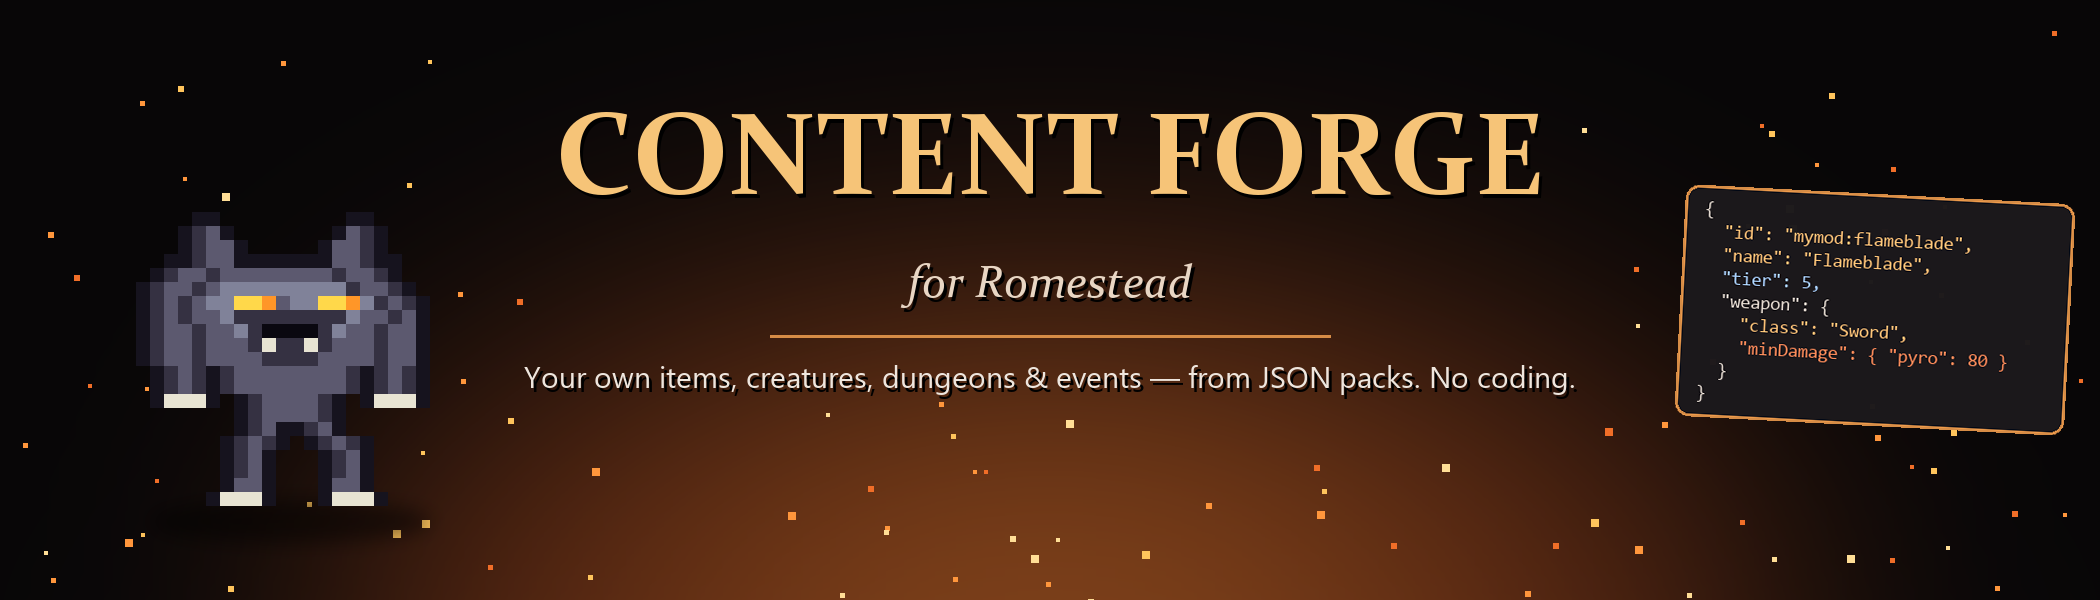
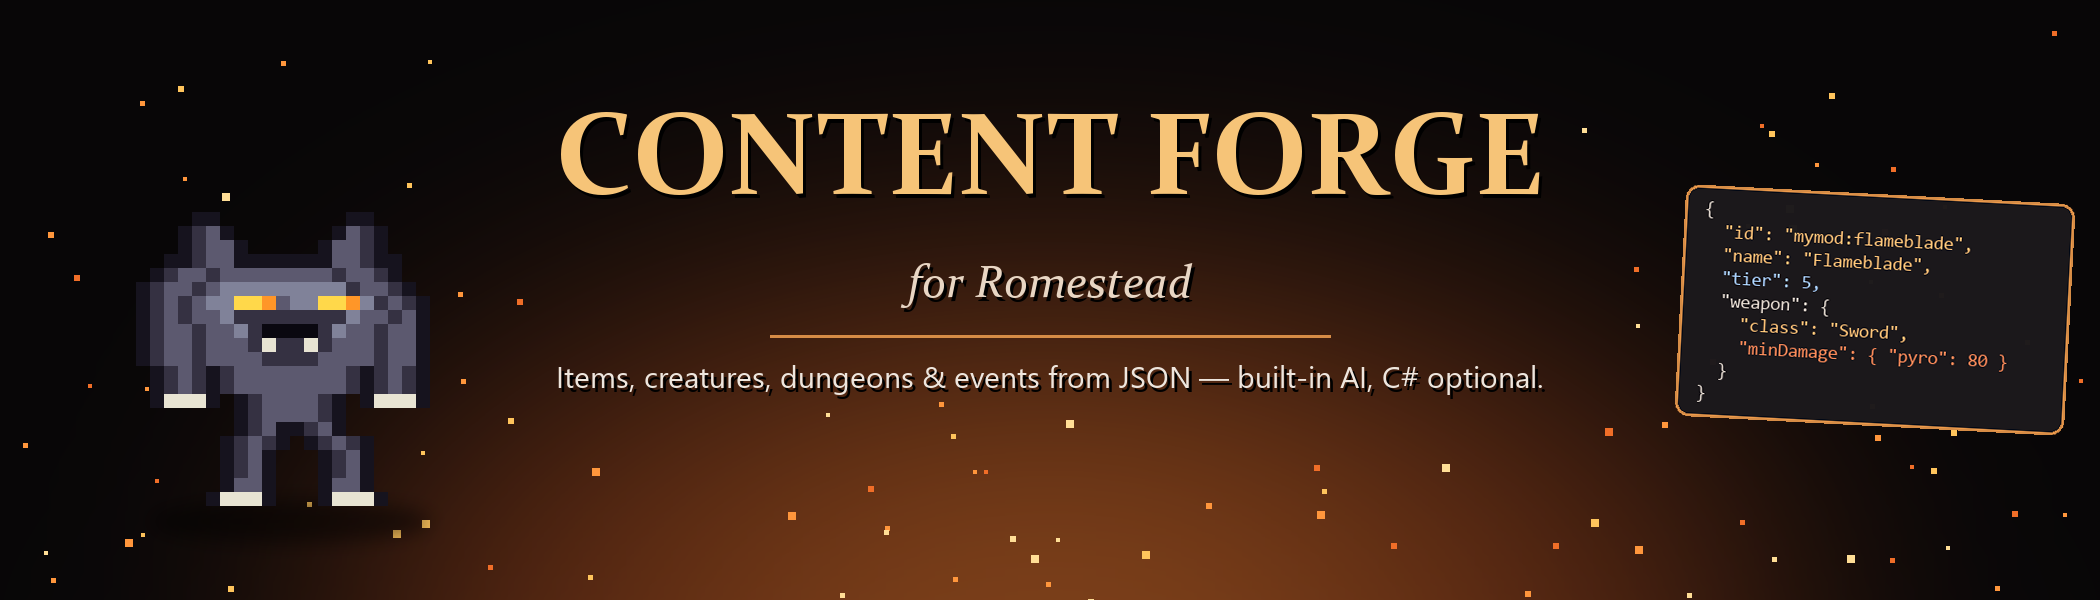
Nexus: 'C# optional, ready-made AI and behaviors' instead of 'no coding'
Packs drive built-in C# behaviors (AI brains, stations, portals...) from
JSON, and addon DLLs can register their own (docs/ADVANCED.md).

Changed region(s): [[0.2476, 0.6, 0.7738, 0.66]]

diff --git a/nexus/README_NEXUS.md b/nexus/README_NEXUS.md
@@ -1,6 +1,6 @@
 # Romestead Content Forge
 
-**Add your own items, weapons, spells, and more to Romestead — from simple JSON files. No coding, no game edits.**
+**Add your own items, weapons, creatures, dungeons and more to Romestead with JSON content packs — ready-made AI and behaviors included, C# optional. No game files edited.**
 
 > **Version 1.0.1 — works with the Romestead 2026-10-04 update. Provided as-is — fixes when I have time, no promises.**
 > I made this for myself and may fix things now and then, but I can't promise updates or a timeline. It's experimental: much of it is tested, some
